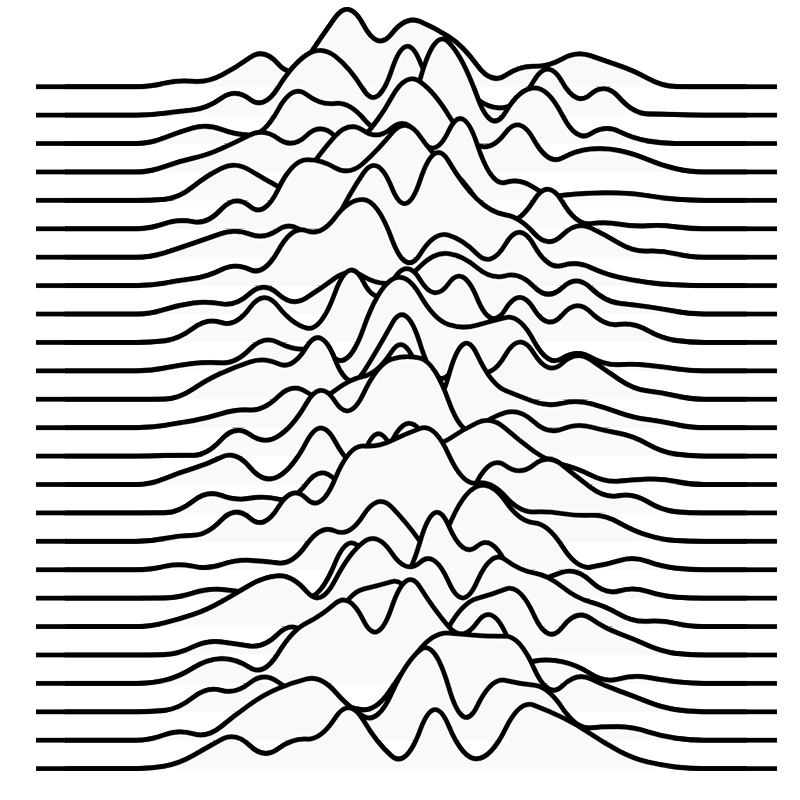
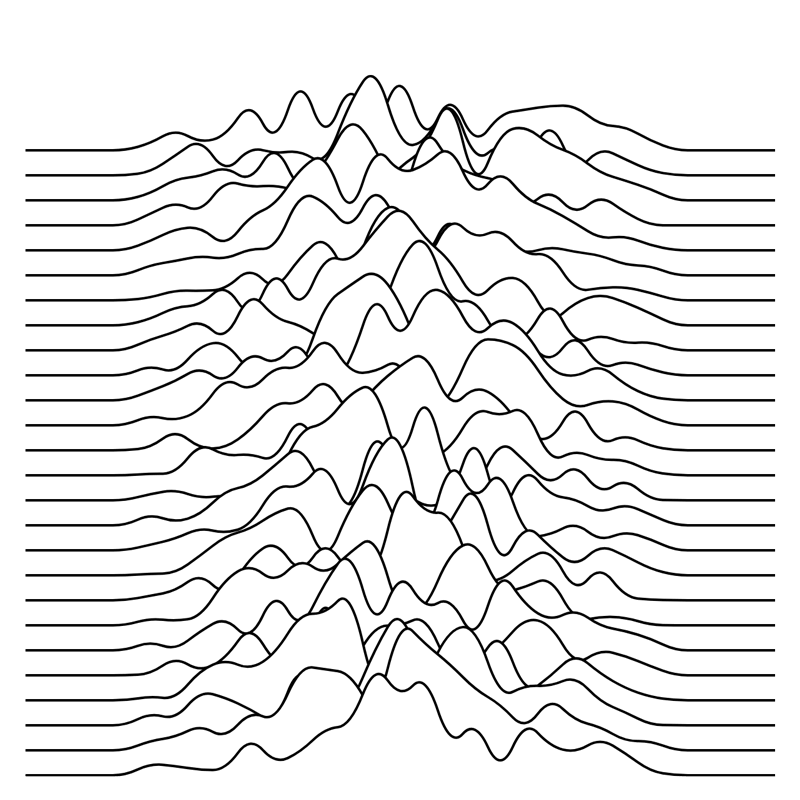
joy division - add global composite operation of destination-out and new image

Changed region(s): [[0.0312, 0.0, 0.9688, 0.9688]]

diff --git a/content/tutorials/joy-division.md b/content/tutorials/joy-division.md
@@ -95,27 +95,23 @@ var random = Math.random() * variance / 2 * -1;
 {{< / highlight >}}
 </div>
 
-We can see here that we've made something a little messy. And that we can see through each line, which doesn't look great. We're going to use a `fill` to cover those up. First we'll set the fill style.
+We can see here that we've made something a little messy and that we can see through each line, which doesn't look great. We're going to use a `fill` with a `globalCompositeOperation` of `destination-out` to fix this.
 
-<div id="tmd-6" class="tmd-trigger" data-from="9" data-to="9">
-{{< highlight js "linenos=table,linenostart=9" >}}
-context.fillStyle = '#f9f9f9';
-context.lineWidth = 2;
-{{< / highlight >}}
-</div>
+Global composite operations allow us to draw to the canvas in very interesting ways. For our case, we want to essentially "erase" our new shape from the existing lines above it. The `destination-out` mode works great for erasing from a canvas. Check out [this article](https://developer.mozilla.org/en-US/docs/Web/API/CanvasRenderingContext2D/globalCompositeOperation) to learn more about canvas global composite operations.
 
-And then we will add in the fill command after the line is drawn. This covers up the messy lines beneath each layer.
-
-<div id="tmd-7" class="tmd-trigger" data-from="38" data-to="38">
-{{< highlight js "linenos=table,linenostart=38" >}}
+<div id="tmd-6" class="tmd-trigger" data-from="37" data-to="37">
+{{< highlight js "linenos=table,linenostart=37" >}}
+  context.save();
+  context.globalCompositeOperation = 'destination-out';
   context.fill();
+  context.restore();
 {{< / highlight >}}
 </div>
 
 We're getting so close now. The only piece left is to make the lines much less jagged. To do this, we're going to use quadratic curves, and create control points between each one to create a smooth path. The final `quadraticCurveTo` is the last joining step.
 
-<div id="tmd-8" class="tmd-trigger" data-from="34" data-to="38">
-{{< highlight js "linenos=table,linenostart=34" >}}
+<div id="tmd-7" class="tmd-trigger" data-from="33" data-to="37">
+{{< highlight js "linenos=table,linenostart=33" >}}
   for( var j = 0; j < lines[i].length - 2; j++) {
     var xc = (lines[i][j].x + lines[i][j + 1].x) / 2;
     var yc = (lines[i][j].y + lines[i][j + 1].y) / 2;
@@ -123,6 +119,15 @@ We're getting so close now. The only piece left is to make the lines much less j
   }
 
   context.quadraticCurveTo(lines[i][j].x, lines[i][j].y, lines[i][j + 1].x, lines[i][j + 1].y);
+
+{{< / highlight >}}
+</div>
+
+This looks great! Now we just need a little breathing room on top. Let's prevent the top lines from going off the top of the canvas. We can do this by starting the loop at a higher index to skip the drawing of a few of the top lines.
+
+<div id="tmd-8" class="tmd-trigger" data-from="28" data-to="29">
+{{< highlight js "linenos=table,linenostart=28" >}}
+for(var i = 5; i < lines.length; i++) {
 {{< / highlight >}}
 </div>
 
